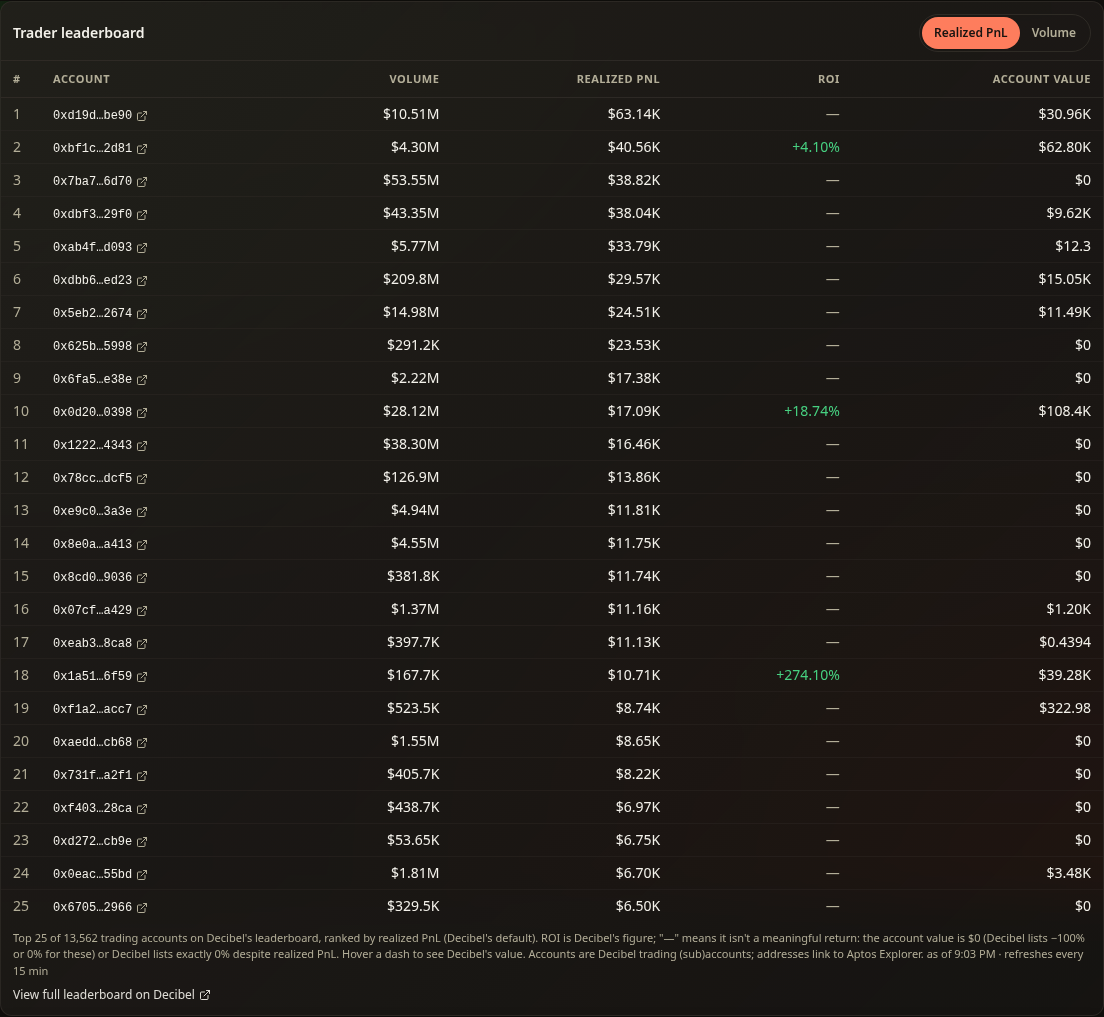
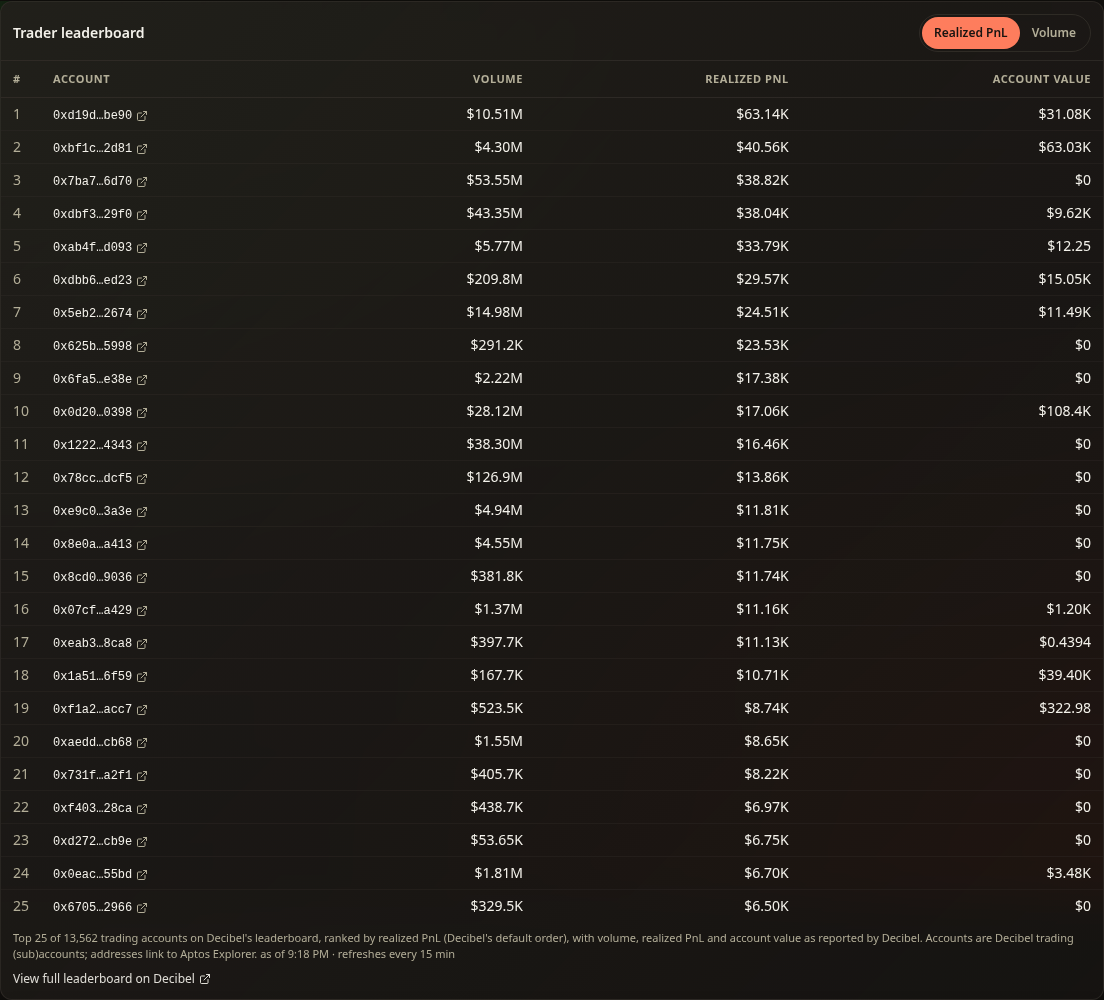
Decibel leaderboard without ROI: fresh screenshot and README

Changed region(s): [[0.0, 0.031, 0.9855, 1.0], [0.8623, 0.031, 0.8931, 0.062], [0.7391, 0.062, 0.7699, 0.093]]

diff --git a/README.md b/README.md
@@ -46,7 +46,7 @@ A stats page for [Decibel](https://decibel.trade), the perpetuals exchange on Ap
 - **All 72 perp markets** (31 crypto, 41 TradFi), with price, 24h and 7d change, 24h volume, open interest, and funding shown per year or per hour
 - **Top movers** of the last 24 hours and what's trending on Decibel
 - **Top vaults** by TVL, with APR, all-time return and depositors
-- **Trader leaderboard**, ranked by realized PnL like Decibel's own leaderboard, or by volume, with ROI and account value as Decibel reports them. Where ROI isn't a meaningful return (for example, an account with nothing left in it), the page shows a dash and explains why instead of a misleading −100%
+- **Trader leaderboard**: the top 25 accounts ranked by realized PnL, as on Decibel's own leaderboard, or by volume, with account value, linking to Decibel's full leaderboard
 
 ![Decibel](screenshots/decibel_desktop_dark.png)
 ![Decibel markets](screenshots/decibel_markets_desktop_dark.png)
@@ -87,7 +87,7 @@ Balances and staking, portfolio history, token holdings, NFT gallery, transactio
 
 - **Showing "Unavailable" instead of a wrong number.** Where a figure can't be stated reliably, the site says so. For example, the inequality measure (Gini) isn't shown because 100 holders aren't enough to compute it honestly.
 - **One exchange is most of the chain's traffic.** Decibel was almost all of the live feed, mislabelled as swaps. The fix wasn't a separate page but honest labels and a filter on the one people already use.
-- **A number can be correct and still mislead.** Decibel's leaderboard lists many top accounts at −100% ROI with $0 left in them. Tracktos shows the same rows, but marks those ROIs as not meaningful and says why.
+- **A number can be correct and still mislead.** Decibel's leaderboard lists an ROI it doesn't explain, and for most top accounts it read −100% or 0%. Rather than show a figure people can't interpret, Tracktos leaves it out.
 - **Matching the source.** Decibel's own pages count only the markets it lists, so Tracktos does too, and funding is shown the same way, per hour or per year.
 - **Very busy wallets.** Exchange wallets have millions of transfers; rather than hang, Tracktos recognises them and shows a fast summary.
 - **Live views for everyone at once.** Pulse, Network and Decibel are built to stay smooth when many people have them open at the same time.
